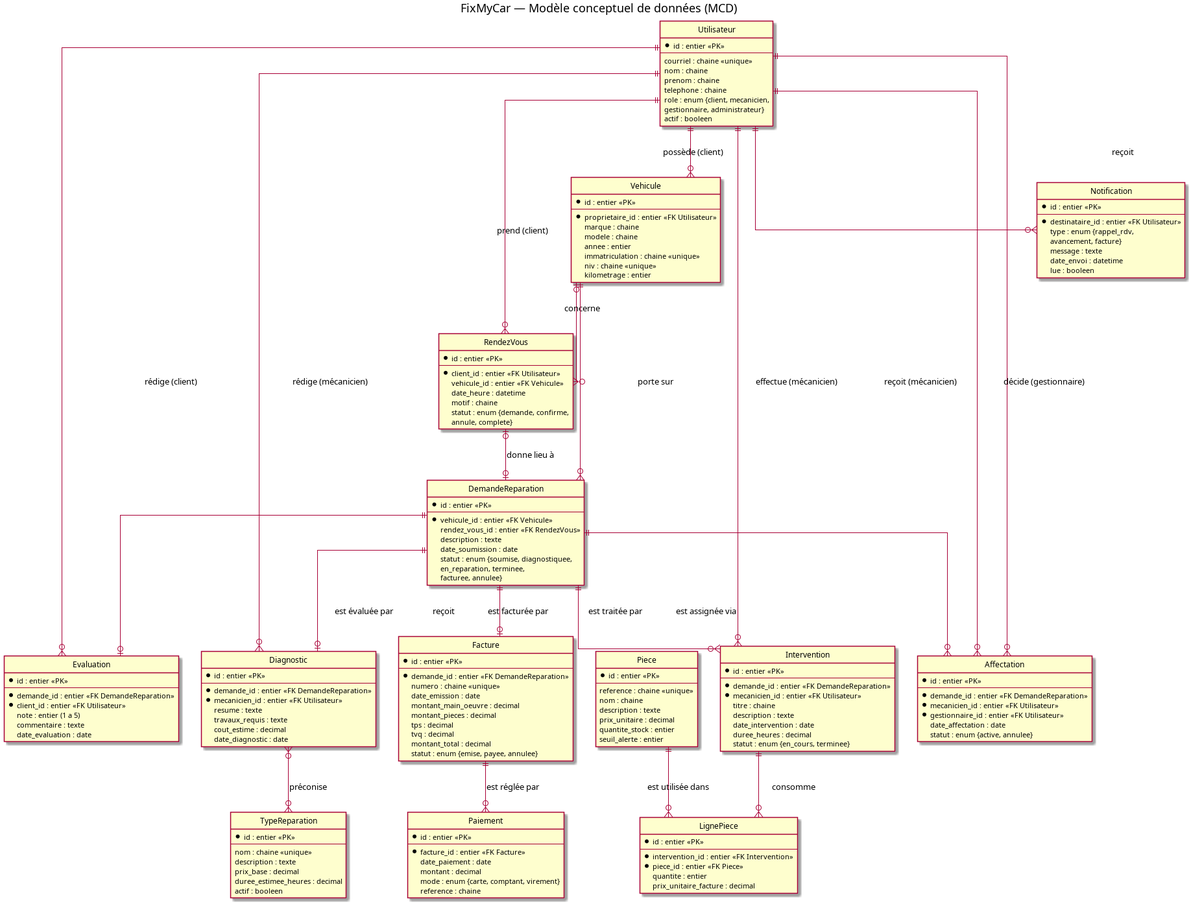
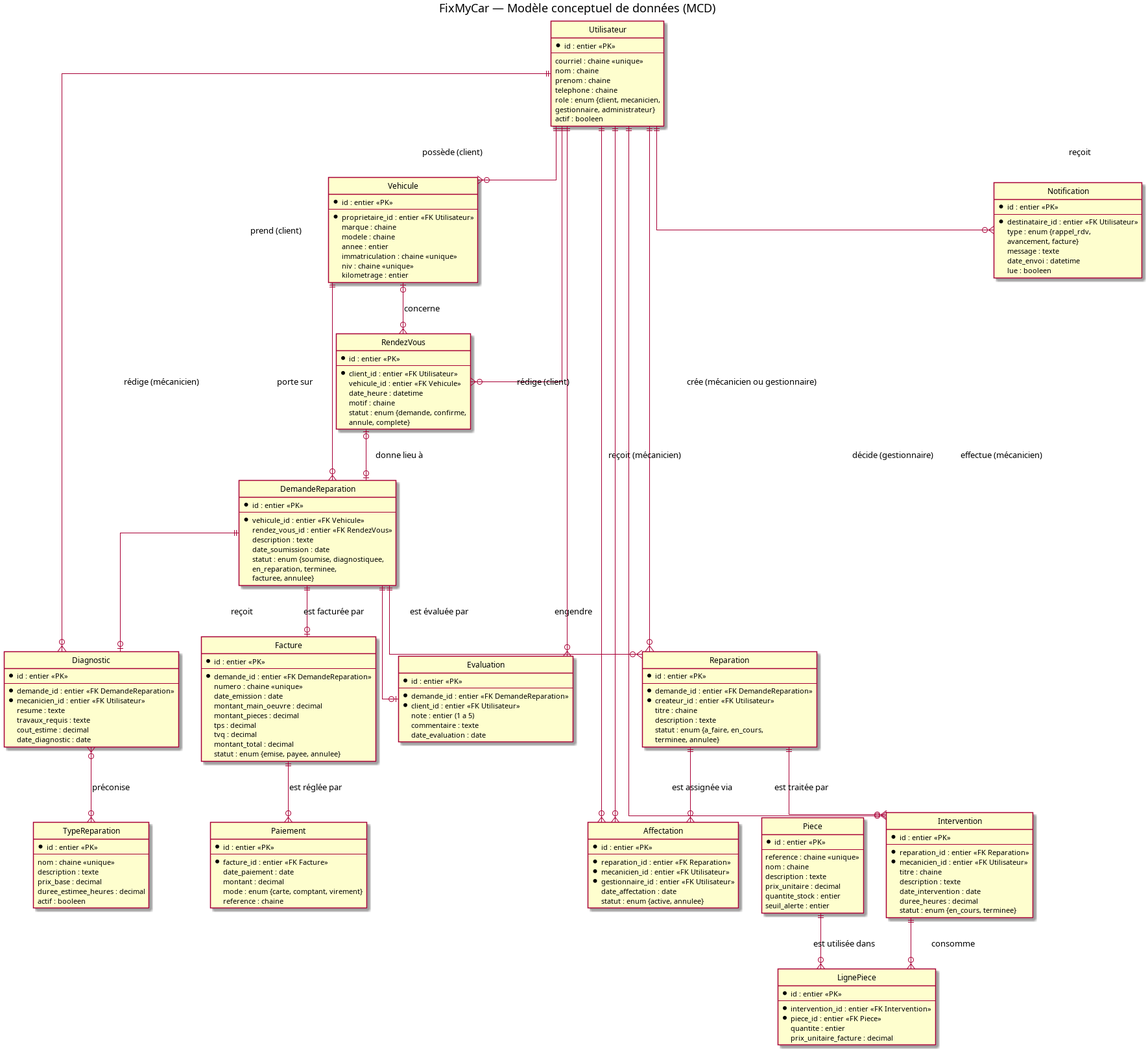
Met a jour le mcd

diff --git a/docs/mcd.md b/docs/mcd.md
@@ -24,10 +24,12 @@ erDiagram
     DEMANDE_REPARATION ||--o| DIAGNOSTIC : "recoit"
     UTILISATEUR ||--o{ DIAGNOSTIC : "redige (mecanicien)"
     DIAGNOSTIC }o--o{ TYPE_REPARATION : "preconise"
-    DEMANDE_REPARATION ||--o{ AFFECTATION : "est assignee via"
+    DEMANDE_REPARATION ||--o{ REPARATION : "engendre"
+    UTILISATEUR ||--o{ REPARATION : "cree (mecanicien ou gestionnaire)"
+    REPARATION ||--o{ AFFECTATION : "est assignee via"
     UTILISATEUR ||--o{ AFFECTATION : "recoit (mecanicien)"
     UTILISATEUR ||--o{ AFFECTATION : "decide (gestionnaire)"
-    DEMANDE_REPARATION ||--o{ INTERVENTION : "est traitee par"
+    REPARATION ||--o{ INTERVENTION : "est traitee par"
     UTILISATEUR ||--o{ INTERVENTION : "effectue (mecanicien)"
     INTERVENTION ||--o{ LIGNE_PIECE : "consomme"
     PIECE ||--o{ LIGNE_PIECE : "est utilisee dans"
@@ -89,9 +91,17 @@ erDiagram
         decimal duree_estimee_heures
         bool actif
     }
-    AFFECTATION {
+    REPARATION {
         int id PK
         int demande_id FK
+        int createur_id FK "mecanicien ou gestionnaire"
+        string titre
+        text description
+        string statut "a_faire / en_cours / terminee / annulee"
+    }
+    AFFECTATION {
+        int id PK
+        int reparation_id FK
         int mecanicien_id FK
         int gestionnaire_id FK
         date date_affectation
@@ -99,7 +109,7 @@ erDiagram
     }
     INTERVENTION {
         int id PK
-        int demande_id FK
+        int reparation_id FK
         int mecanicien_id FK
         string titre
         text description
@@ -172,17 +182,18 @@ Cardinalités exprimées en notation Merise (min, max), lues dans les deux sens.
 | RG1 | Un **utilisateur** a exactement un rôle : `client`, `mecanicien`, `gestionnaire` ou `administrateur`. Un compte n'est jamais supprimé physiquement s'il est référencé : il est **désactivé** (`actif = faux`), conformément au cas d'utilisation « Désactiver un compte ». |
 | RG2 | Un **véhicule** appartient à un et un seul client (1,1); un client possède 0 à n véhicules (0,n). |
 | RG3 | Un **rendez-vous** est pris par un et un seul client (1,1) et concerne au plus un véhicule (0,1). Un véhicule peut être visé par 0 à n rendez-vous. |
-| RG4 | Une **demande de réparation** porte sur un et un seul véhicule (1,1) et peut découler d'au plus un rendez-vous (0,1). Un véhicule fait l'objet de 0 à n demandes — c'est cette relation qui fournit l'**historique des réparations** (#71). |
-| RG5 | Une demande suit le cycle de vie : `soumise → diagnostiquee → en_reparation → terminee → facturee`, avec `annulee` possible avant `en_reparation`. C'est ce statut que consulte le client (#65). |
+| RG4 | Une **demande de réparation** porte sur un et un seul véhicule (1,1) et peut découler d'au plus un rendez-vous (0,1). Un véhicule fait l'objet de 0 à n demandes — c'est cette relation qui fournit l'**historique des réparations** (#11). |
+| RG5 | Une demande suit le cycle de vie : `soumise → diagnostiquee → en_reparation → terminee → facturee`, avec `annulee` possible avant `en_reparation`. Elle passe à `en_reparation` dès la création d'une première réparation (RG7) et à `terminee` quand toutes ses réparations sont terminées. C'est ce statut que consulte le client (#5). |
 | RG6 | Un **diagnostic** est rédigé par un et un seul mécanicien (1,1) pour une et une seule demande; une demande reçoit au plus un diagnostic (0,1). Un diagnostic préconise 0 à n **types de réparation** du catalogue, et un type peut être préconisé par 0 à n diagnostics (association n,n). |
-| RG7 | Une **affectation** lie une demande (1,1) à un mécanicien (1,1) et est décidée par un gestionnaire (1,1). Une demande a au plus une affectation `active` à la fois; les affectations annulées sont conservées pour la traçabilité. |
-| RG8 | Une **intervention** est effectuée par un et un seul mécanicien (1,1) et se rattache à une et une seule demande (1,1); une demande peut compter 0 à n interventions. |
-| RG9 | Une intervention consomme 0 à n **pièces** via des lignes de pièce; chaque ligne fige la quantité et le prix unitaire au moment de l'utilisation. La quantité en stock de la pièce est décrémentée d'autant. |
-| RG10 | Une **facture** est émise pour une et une seule demande, et une demande a au plus une facture (0,1). Le total = main-d'œuvre + pièces + TPS + TVQ. |
-| RG11 | Une facture est réglée par 0 à n **paiements** (paiements partiels permis); elle passe à `payee` quand la somme des paiements atteint le montant total. |
-| RG12 | Une **notification** a un et un seul destinataire; un utilisateur reçoit 0 à n notifications. |
-| RG13 | Une **évaluation** est rédigée par le client de la demande, au plus une par demande (0,1), et seulement lorsque la demande est `terminee` ou `facturee`. La note est un entier de 1 à 5. |
-| RG14 | Seul un utilisateur de rôle `mecanicien` peut être visé par les relations « rédige un diagnostic », « effectue une intervention » et « reçoit une affectation »; seul un `gestionnaire` décide d'une affectation; seul un `client` possède des véhicules. (Contrainte applicative, validée dans les serializers.) |
+| RG7 | Une **réparation** est créée pour une et une seule demande (1,1), par un et un seul utilisateur de rôle `mecanicien` ou `gestionnaire` (1,1), et uniquement après que la demande a reçu un diagnostic (RG6). Une demande engendre 0 à n réparations. Une réparation suit le cycle de vie : `a_faire → en_cours → terminee`, avec `annulee` possible. |
+| RG8 | Une **affectation** lie une réparation (1,1) à un mécanicien (1,1) et est décidée par un gestionnaire (1,1). Une réparation a au plus une affectation `active` à la fois; les affectations annulées sont conservées pour la traçabilité. |
+| RG9 | Une **intervention** est effectuée par un et un seul mécanicien (1,1) et se rattache à une et une seule réparation (1,1); une réparation peut compter 0 à n interventions. Seul le mécanicien de l'affectation `active` lie ses interventions à la réparation (contrainte applicative). |
+| RG10 | Une intervention consomme 0 à n **pièces** via des lignes de pièce; chaque ligne fige la quantité et le prix unitaire au moment de l'utilisation. La quantité en stock de la pièce est décrémentée d'autant. |
+| RG11 | Une **facture** est émise pour une et une seule demande, et une demande a au plus une facture (0,1). Le total = main-d'œuvre + pièces + TPS + TVQ. |
+| RG12 | Une facture est réglée par 0 à n **paiements** (paiements partiels permis); elle passe à `payee` quand la somme des paiements atteint le montant total. |
+| RG13 | Une **notification** a un et un seul destinataire; un utilisateur reçoit 0 à n notifications. |
+| RG14 | Une **évaluation** est rédigée par le client de la demande, au plus une par demande (0,1), et seulement lorsque la demande est `terminee` ou `facturee`. La note est un entier de 1 à 5. |
+| RG15 | Seul un utilisateur de rôle `mecanicien` peut être visé par les relations « rédige un diagnostic », « effectue une intervention » et « reçoit une affectation »; seul un `mecanicien` ou un `gestionnaire` crée une réparation; seul un `gestionnaire` décide d'une affectation; seul un `client` possède des véhicules. (Contrainte applicative, validée dans les serializers.) |
 
 ---
 
@@ -190,7 +201,7 @@ Cardinalités exprimées en notation Merise (min, max), lues dans les deux sens.
 
 Types exprimés en champs Django pour une traduction directe en modèles. Toutes les entités portent en plus les champs d'audit `date_creation` (`DateTimeField(auto_now_add=True)`) et `date_modification` (`DateTimeField(auto_now=True)`) — omis des tables ci-dessous.
 
-### 3.1 Utilisateur (#1, #68 — AN)
+### 3.1 Utilisateur (#1, #8 — AN)
 
 Modèle utilisateur **personnalisé** (`AbstractUser`) déclaré via `AUTH_USER_MODEL`. À créer **en priorité** : changer `AUTH_USER_MODEL` après coup exige de recréer les migrations de toutes les apps (voir §6).
 
@@ -200,7 +211,7 @@ Modèle utilisateur **personnalisé** (`AbstractUser`) déclaré via `AUTH_USER_
 | nom | CharField(150) | requis | Nom de famille |
 | prenom | CharField(150) | requis | Prénom |
 | telephone | CharField(20) | optionnel | Téléphone de contact |
-| role | CharField(20) | TextChoices : `client`, `mecanicien`, `gestionnaire`, `administrateur` | Rôle unique (RG1, RG14) |
+| role | CharField(20) | TextChoices : `client`, `mecanicien`, `gestionnaire`, `administrateur` | Rôle unique (RG1, RG15) |
 | actif | BooleanField | défaut `True` | Désactivation logique (RG1) — correspond à `is_active` de Django |
 
 ### 3.2 Vehicule (#2 — GAM)
@@ -215,7 +226,7 @@ Modèle utilisateur **personnalisé** (`AbstractUser`) déclaré via `AUTH_USER_
 | niv | CharField(17) | unique, optionnel | Numéro d'identification du véhicule (VIN) |
 | kilometrage | PositiveIntegerField | optionnel | Kilométrage au dernier passage |
 
-### 3.3 RendezVous (#63 — BI)
+### 3.3 RendezVous (#3 — BI)
 
 | Attribut | Type Django | Contraintes | Description |
 |---|---|---|---|
@@ -225,7 +236,7 @@ Modèle utilisateur **personnalisé** (`AbstractUser`) déclaré via `AUTH_USER_
 | motif | CharField(200) | requis | Raison de la visite |
 | statut | CharField(20) | TextChoices : `demande`, `confirme`, `annule`, `complete`; défaut `demande` | Cycle de vie du rendez-vous |
 
-### 3.4 DemandeReparation (#64, #65, #71 — MG / BI / SLG)
+### 3.4 DemandeReparation (#4, #5, #11 — MG / BI / SLG)
 
 | Attribut | Type Django | Contraintes | Description |
 |---|---|---|---|
@@ -235,19 +246,19 @@ Modèle utilisateur **personnalisé** (`AbstractUser`) déclaré via `AUTH_USER_
 | date_soumission | DateField | `auto_now_add` | Date de dépôt de la demande |
 | statut | CharField(20) | TextChoices : `soumise`, `diagnostiquee`, `en_reparation`, `terminee`, `facturee`, `annulee`; défaut `soumise` | Avancement consulté par le client (RG5) |
 
-### 3.5 Diagnostic (#66 — GAM)
+### 3.5 Diagnostic (#6 — GAM)
 
 | Attribut | Type Django | Contraintes | Description |
 |---|---|---|---|
 | demande | OneToOneField(DemandeReparation) | requis, PROTECT, `related_name='diagnostic'` | Demande diagnostiquée (RG6) |
-| mecanicien | ForeignKey(Utilisateur) | requis, PROTECT, `related_name='diagnostics'` | Auteur (rôle `mecanicien`, RG14) |
+| mecanicien | ForeignKey(Utilisateur) | requis, PROTECT, `related_name='diagnostics'` | Auteur (rôle `mecanicien`, RG15) |
 | resume | TextField | requis | Constat du mécanicien |
 | travaux_requis | TextField | requis | Travaux recommandés |
 | cout_estime | DecimalField(8,2) | optionnel | Estimation en dollars |
 | date_diagnostic | DateField | requis | Date du diagnostic |
 | types_reparation | ManyToManyField(TypeReparation) | `blank`, `related_name='diagnostics'` | Types préconisés (RG6) |
 
-### 3.6 TypeReparation (#69 — MG)
+### 3.6 TypeReparation (#9 — MG)
 
 Catalogue géré par le gestionnaire pour standardiser les services.
 
@@ -259,23 +270,35 @@ Catalogue géré par le gestionnaire pour standardiser les services.
 | duree_estimee_heures | DecimalField(4,2) | requis | Durée standard |
 | actif | BooleanField | défaut `True` | Retrait du catalogue sans suppression |
 
-### 3.7 Affectation (#70 — GAM)
+### 3.7 Reparation (#10 — GAM)
+
+Créée par un mécanicien ou un gestionnaire une fois la demande diagnostiquée; regroupe les travaux à réaliser et sert de point d'attache aux affectations et aux interventions.
 
 | Attribut | Type Django | Contraintes | Description |
 |---|---|---|---|
-| demande | ForeignKey(DemandeReparation) | requis, CASCADE, `related_name='affectations'` | Demande assignée (RG7) |
-| mecanicien | ForeignKey(Utilisateur) | requis, PROTECT, `related_name='affectations_recues'` | Mécanicien assigné (RG14) |
-| gestionnaire | ForeignKey(Utilisateur) | requis, PROTECT, `related_name='affectations_decidees'` | Décideur (RG14) |
-| date_affectation | DateField | `auto_now_add` | Date de la décision |
-| statut | CharField(20) | TextChoices : `active`, `annulee`; défaut `active` | Une seule `active` par demande (RG7) |
+| demande | ForeignKey(DemandeReparation) | requis, PROTECT, `related_name='reparations'` | Demande d'origine, déjà diagnostiquée (RG7) |
+| createur | ForeignKey(Utilisateur) | requis, PROTECT, `related_name='reparations_creees'` | Mécanicien ou gestionnaire (RG15) |
+| titre | CharField(200) | requis | Résumé des travaux |
+| description | TextField | requis | Travaux à réaliser (issus du diagnostic) |
+| statut | CharField(20) | TextChoices : `a_faire`, `en_cours`, `terminee`, `annulee`; défaut `a_faire` | Cycle de vie (RG7) |
 
-### 3.8 Intervention (#67 — SLG) — *existe déjà*
+### 3.8 Affectation (#10 — GAM)
+
+| Attribut | Type Django | Contraintes | Description |
+|---|---|---|---|
+| reparation | ForeignKey(Reparation) | requis, CASCADE, `related_name='affectations'` | Réparation assignée (RG8) |
+| mecanicien | ForeignKey(Utilisateur) | requis, PROTECT, `related_name='affectations_recues'` | Mécanicien assigné (RG15) |
+| gestionnaire | ForeignKey(Utilisateur) | requis, PROTECT, `related_name='affectations_decidees'` | Décideur (RG15) |
+| date_affectation | DateField | `auto_now_add` | Date de la décision |
+| statut | CharField(20) | TextChoices : `active`, `annulee`; défaut `active` | Une seule `active` par réparation (RG8) |
+
+### 3.9 Intervention (#7 — SLG) — *existe déjà*
 
 Champs actuels de `backend/interventions/models.py`, avec les évolutions prévues (voir §6).
 
 | Attribut | Type Django | Contraintes | Description |
 |---|---|---|---|
-| demande | ForeignKey(DemandeReparation) | requis, PROTECT, `related_name='interventions'` | **Remplace** le champ texte `vehicule` actuel (RG8) |
+| reparation | ForeignKey(Reparation) | requis, PROTECT, `related_name='interventions'` | **Remplace** le champ texte `vehicule` actuel (RG9) |
 | mecanicien | ForeignKey(Utilisateur) | requis, `related_name='interventions'` | Auteur de l'intervention *(existant)* |
 | titre | CharField(200) | requis | Résumé court *(existant)* |
 | description | TextField | requis | Travaux réalisés *(existant)* |
@@ -283,7 +306,7 @@ Champs actuels de `backend/interventions/models.py`, avec les évolutions prévu
 | duree_heures | DecimalField(4,2) | requis | Durée facturable *(existant)* |
 | statut | CharField(20) | TextChoices : `en_cours`, `terminee`; défaut `en_cours` | *(existant)* |
 
-### 3.9 Piece et LignePiece (#75 — GAM)
+### 3.10 Piece et LignePiece (#15 — GAM)
 
 **Piece** — inventaire de l'atelier :
 
@@ -293,58 +316,58 @@ Champs actuels de `backend/interventions/models.py`, avec les évolutions prévu
 | nom | CharField(150) | requis | Désignation |
 | description | TextField | optionnel (`blank`) | Détail |
 | prix_unitaire | DecimalField(8,2) | requis | Prix courant |
-| quantite_stock | PositiveIntegerField | défaut 0 | Stock disponible (RG9) |
+| quantite_stock | PositiveIntegerField | défaut 0 | Stock disponible (RG10) |
 | seuil_alerte | PositiveIntegerField | défaut 0 | Seuil de réapprovisionnement |
 
 **LignePiece** — pièces consommées par une intervention (**remplace** le champ texte `pieces_utilisees`, voir §6) :
 
 | Attribut | Type Django | Contraintes | Description |
 |---|---|---|---|
-| intervention | ForeignKey(Intervention) | requis, CASCADE, `related_name='lignes_pieces'` | Intervention consommatrice (RG9) |
+| intervention | ForeignKey(Intervention) | requis, CASCADE, `related_name='lignes_pieces'` | Intervention consommatrice (RG10) |
 | piece | ForeignKey(Piece) | requis, PROTECT, `related_name='lignes'` | Pièce utilisée |
 | quantite | PositiveIntegerField | requis, ≥ 1 | Quantité consommée |
-| prix_unitaire_facture | DecimalField(8,2) | requis | Prix figé au moment de l'utilisation (RG9) |
+| prix_unitaire_facture | DecimalField(8,2) | requis | Prix figé au moment de l'utilisation (RG10) |
 
-### 3.10 Facture (#72 — BI)
+### 3.11 Facture (#12 — BI)
 
 | Attribut | Type Django | Contraintes | Description |
 |---|---|---|---|
-| demande | OneToOneField(DemandeReparation) | requis, PROTECT, `related_name='facture'` | Demande facturée (RG10) |
+| demande | OneToOneField(DemandeReparation) | requis, PROTECT, `related_name='facture'` | Demande facturée (RG11) |
 | numero | CharField(20) | unique | Ex. `FAC-2026-0001` |
 | date_emission | DateField | `auto_now_add` | Date d'émission |
 | montant_main_oeuvre | DecimalField(8,2) | requis | Somme des heures × taux |
 | montant_pieces | DecimalField(8,2) | requis | Somme des lignes de pièce |
 | tps | DecimalField(8,2) | requis | Taxe fédérale (5 %) |
 | tvq | DecimalField(8,2) | requis | Taxe provinciale (9,975 %) |
-| montant_total | DecimalField(8,2) | requis | Total TTC (RG10) |
-| statut | CharField(20) | TextChoices : `emise`, `payee`, `annulee`; défaut `emise` | Passe à `payee` selon RG11 |
+| montant_total | DecimalField(8,2) | requis | Total TTC (RG11) |
+| statut | CharField(20) | TextChoices : `emise`, `payee`, `annulee`; défaut `emise` | Passe à `payee` selon RG12 |
 
-### 3.11 Paiement (#73 — MG)
+### 3.12 Paiement (#13 — MG)
 
 | Attribut | Type Django | Contraintes | Description |
 |---|---|---|---|
-| facture | ForeignKey(Facture) | requis, PROTECT, `related_name='paiements'` | Facture réglée (RG11) |
+| facture | ForeignKey(Facture) | requis, PROTECT, `related_name='paiements'` | Facture réglée (RG12) |
 | date_paiement | DateField | `auto_now_add` | Date du règlement |
 | montant | DecimalField(8,2) | requis, > 0 | Montant versé |
 | mode | CharField(20) | TextChoices : `carte`, `comptant`, `virement` | Mode de paiement |
 | reference | CharField(100) | optionnel (`blank`) | N° de transaction |
 
-### 3.12 Notification (#76 — SLG)
+### 3.13 Notification (#16 — SLG)
 
 | Attribut | Type Django | Contraintes | Description |
 |---|---|---|---|
-| destinataire | ForeignKey(Utilisateur) | requis, CASCADE, `related_name='notifications'` | Destinataire (RG12) |
+| destinataire | ForeignKey(Utilisateur) | requis, CASCADE, `related_name='notifications'` | Destinataire (RG13) |
 | type | CharField(20) | TextChoices : `rappel_rdv`, `avancement`, `facture` | Nature de la notification |
 | message | TextField | requis | Contenu affiché |
 | date_envoi | DateTimeField | `auto_now_add` | Horodatage d'envoi |
 | lue | BooleanField | défaut `False` | Marquage lu/non-lu |
 
-### 3.13 Evaluation (#77 — AN)
+### 3.14 Evaluation (#17 — AN)
 
 | Attribut | Type Django | Contraintes | Description |
 |---|---|---|---|
-| demande | OneToOneField(DemandeReparation) | requis, PROTECT, `related_name='evaluation'` | Demande évaluée (RG13) |
-| client | ForeignKey(Utilisateur) | requis, PROTECT, `related_name='evaluations'` | Auteur (client de la demande, RG13) |
+| demande | OneToOneField(DemandeReparation) | requis, PROTECT, `related_name='evaluation'` | Demande évaluée (RG14) |
+| client | ForeignKey(Utilisateur) | requis, PROTECT, `related_name='evaluations'` | Auteur (client de la demande, RG14) |
 | note | PositiveSmallIntegerField | requis, 1 ≤ note ≤ 5 | Note de satisfaction |
 | commentaire | TextField | optionnel (`blank`) | Avis libre |
 | date_evaluation | DateField | `auto_now_add` | Date de dépôt |
@@ -355,10 +378,10 @@ Champs actuels de `backend/interventions/models.py`, avec les évolutions prévu
 
 Ces user stories sont des **vues/requêtes** sur les entités ci-dessus — ne pas créer de table pour elles :
 
-- **#65 Consulter l'état des réparations** : lecture de `DemandeReparation.statut` (+ diagnostic et interventions liés).
-- **#71 Historique des réparations d'un véhicule** : `Vehicule → demandes → interventions/factures`, trié par date.
-- **#74 Rechercher les dossiers clients** : recherche sur `Utilisateur` + agrégation de ses véhicules, demandes et factures.
-- **#78 Rapports et statistiques** : agrégations (revenus par période, charge par mécanicien, pièces les plus utilisées…).
+- **#5 Consulter l'état des réparations** : lecture de `DemandeReparation.statut` (+ diagnostic, réparations et interventions liés).
+- **#11 Historique des réparations d'un véhicule** : `Vehicule → demandes → reparations → interventions/factures`, trié par date.
+- **#14 Rechercher les dossiers clients** : recherche sur `Utilisateur` + agrégation de ses véhicules, demandes et factures.
+- **#18 Rapports et statistiques** : agrégations (revenus par période, charge par mécanicien, pièces les plus utilisées…).
 
 ---
 
@@ -367,10 +390,10 @@ Ces user stories sont des **vues/requêtes** sur les entités ci-dessus — ne p
 1. **Nommage** : français, `snake_case`, **sans accents** dans les identifiants (`duree_heures`, `date_soumission`) — comme le code existant. Classes de modèles en `PascalCase` sans accents (`DemandeReparation`).
 2. **Statuts** : toujours un `CharField` + `models.TextChoices` interne (voir `Intervention.Statut`), valeurs en `snake_case`, avec un `default`. Pas d'entiers magiques ni de booléens multiples.
 3. **Audit** : chaque modèle porte `date_creation = DateTimeField(auto_now_add=True)` et `date_modification = DateTimeField(auto_now=True)`.
-4. **Suppressions** : `on_delete=PROTECT` par défaut vers les entités de traçabilité (utilisateurs, véhicules, demandes, factures, pièces); `CASCADE` uniquement pour les compositions (lignes de pièce, notifications, affectations d'une demande). Les comptes utilisateurs se **désactivent**, ne se suppriment pas (RG1).
+4. **Suppressions** : `on_delete=PROTECT` par défaut vers les entités de traçabilité (utilisateurs, véhicules, demandes, réparations, factures, pièces); `CASCADE` uniquement pour les compositions (lignes de pièce, notifications, affectations d'une réparation). Les comptes utilisateurs se **désactivent**, ne se suppriment pas (RG1).
 5. **`related_name`** : toujours défini, en français au pluriel (`vehicules`, `demandes`, `paiements`).
 6. **Montants** : `DecimalField(max_digits=8, decimal_places=2)` — jamais de `FloatField` pour l'argent. Durées en heures : `DecimalField(max_digits=4, decimal_places=2)`.
-7. **Organisation des apps Django** (une app par domaine, pour limiter les conflits de merge) : `comptes` (Utilisateur), `vehicules`, `reparations` (RendezVous, DemandeReparation, Diagnostic, TypeReparation, Affectation), `interventions` (existante : Intervention, LignePiece), `facturation` (Facture, Paiement), `inventaire` (Piece), `notifications`, `evaluations`. Ajustable en équipe, mais à décider **avant** de créer les modèles.
+7. **Organisation des apps Django** (une app par domaine, pour limiter les conflits de merge) : `comptes` (Utilisateur), `vehicules`, `reparations` (RendezVous, DemandeReparation, Diagnostic, TypeReparation, Reparation, Affectation), `interventions` (existante : Intervention, LignePiece), `facturation` (Facture, Paiement), `inventaire` (Piece), `notifications`, `evaluations`. Ajustable en équipe, mais à décider **avant** de créer les modèles.
 8. **Migrations** : une seule personne crée les migrations d'une app donnée par sprint (le responsable de la story), pour éviter les conflits de numérotation.
 
 ---
@@ -381,11 +404,11 @@ Le modèle `Intervention` (`backend/interventions/models.py`) contient deux cham
 
 | Champ actuel | Provisoire parce que | Cible MCD | Quand |
 |---|---|---|---|
-| `vehicule = CharField(200)` | #64 (demandes) n'existait pas encore | `demande = ForeignKey(DemandeReparation)` — le véhicule se déduit de `demande.vehicule` | Dès que #64 est fusionnée (migration de données : créer les demandes correspondantes ou vider la table de dev) |
-| `pieces_utilisees = TextField` | #75 (inventaire) n'existait pas encore | Lignes `LignePiece` liées à l'intervention | Sprint 3, avec #75 |
+| `vehicule = CharField(200)` | #4 (demandes) et la création des réparations (#10) n'existaient pas encore | `reparation = ForeignKey(Reparation)` — le véhicule se déduit de `reparation.demande.vehicule` | Dès que #4 et #10 sont fusionnées (migration de données : créer les réparations correspondantes ou vider la table de dev) |
+| `pieces_utilisees = TextField` | #15 (inventaire) n'existait pas encore | Lignes `LignePiece` liées à l'intervention | Sprint 3, avec #15 |
 | `mecanicien` avec `on_delete=CASCADE` | — | Passer à `PROTECT` (convention §5.4) : supprimer un mécanicien ne doit pas effacer l'historique des travaux | Prochaine migration de l'app |
 
-Par ailleurs, le projet utilise actuellement le `User` de `django.contrib.auth` sans modèle personnalisé. La story **#1/#68 (AN)** doit introduire `comptes.Utilisateur` (`AbstractUser` + champ `role`) et pointer `AUTH_USER_MODEL` dessus **avant** que d'autres apps ne créent leurs FK utilisateur : Django ne permet pas de changer `AUTH_USER_MODEL` proprement une fois les migrations de production appliquées. La FK existante `Intervention.mecanicien` utilise déjà `settings.AUTH_USER_MODEL`, elle suivra automatiquement (les migrations de dev devront être régénérées).
+Par ailleurs, le projet utilise actuellement le `User` de `django.contrib.auth` sans modèle personnalisé. La story **#1/#8 (AN)** doit introduire `comptes.Utilisateur` (`AbstractUser` + champ `role`) et pointer `AUTH_USER_MODEL` dessus **avant** que d'autres apps ne créent leurs FK utilisateur : Django ne permet pas de changer `AUTH_USER_MODEL` proprement une fois les migrations de production appliquées. La FK existante `Intervention.mecanicien` utilise déjà `settings.AUTH_USER_MODEL`, elle suivra automatiquement (les migrations de dev devront être régénérées).
 
 ---
 
@@ -395,19 +418,19 @@ Par ailleurs, le projet utilise actuellement le `User` de `django.contrib.auth` 
 |---|---|---|---|---|
 | #1 | Comptes utilisateurs | AN | Utilisateur | — |
 | #2 | Véhicules | GAM | Vehicule | Utilisateur |
-| #63 | Rendez-vous | BI | RendezVous | Utilisateur, Vehicule |
-| #64 | Demandes de réparation | MG | DemandeReparation | Vehicule, RendezVous |
-| #65 | État des réparations | BI | — (vue, §4) | DemandeReparation, Diagnostic, Intervention |
-| #66 | Diagnostics | GAM | Diagnostic | DemandeReparation, TypeReparation, Utilisateur |
-| #67 | Interventions mécaniques | SLG | Intervention *(existante)* | DemandeReparation, Utilisateur |
-| #68 | Utilisateurs et rôles | AN | — (champ `role` de Utilisateur) | Utilisateur |
-| #69 | Types de réparations | MG | TypeReparation | — |
-| #70 | Affectation aux mécaniciens | GAM | Affectation | DemandeReparation, Utilisateur |
-| #71 | Historique des réparations | SLG | — (vue, §4) | Vehicule, DemandeReparation, Intervention, Facture |
-| #72 | Factures | BI | Facture | DemandeReparation, Intervention, LignePiece |
-| #73 | Paiements | MG | Paiement | Facture |
-| #74 | Dossiers clients | AN | — (vue, §4) | Utilisateur, Vehicule, DemandeReparation, Facture |
-| #75 | Pièces et inventaire | GAM | Piece, LignePiece | Intervention |
-| #76 | Notifications et rappels | SLG | Notification | Utilisateur, RendezVous, DemandeReparation, Facture |
-| #77 | Évaluations clients | AN | Evaluation | DemandeReparation, Utilisateur |
-| #78 | Rapports et statistiques | MG | — (vue, §4) | toutes |
+| #3 | Rendez-vous | BI | RendezVous | Utilisateur, Vehicule |
+| #4 | Demandes de réparation | MG | DemandeReparation | Vehicule, RendezVous |
+| #5 | État des réparations | BI | — (vue, §4) | DemandeReparation, Diagnostic, Reparation, Intervention |
+| #6 | Diagnostics | GAM | Diagnostic | DemandeReparation, TypeReparation, Utilisateur |
+| #7 | Interventions mécaniques | SLG | Intervention *(existante)* | Reparation, Utilisateur |
+| #8 | Utilisateurs et rôles | AN | — (champ `role` de Utilisateur) | Utilisateur |
+| #9 | Types de réparations | MG | TypeReparation | — |
+| #10 | Affectation aux mécaniciens | GAM | Reparation, Affectation | DemandeReparation, Diagnostic, Utilisateur |
+| #11 | Historique des réparations | SLG | — (vue, §4) | Vehicule, DemandeReparation, Reparation, Intervention, Facture |
+| #12 | Factures | BI | Facture | DemandeReparation, Intervention, LignePiece |
+| #13 | Paiements | MG | Paiement | Facture |
+| #14 | Dossiers clients | AN | — (vue, §4) | Utilisateur, Vehicule, DemandeReparation, Facture |
+| #15 | Pièces et inventaire | GAM | Piece, LignePiece | Intervention |
+| #16 | Notifications et rappels | SLG | Notification | Utilisateur, RendezVous, DemandeReparation, Facture |
+| #17 | Évaluations clients | AN | Evaluation | DemandeReparation, Utilisateur |
+| #18 | Rapports et statistiques | MG | — (vue, §4) | toutes |
